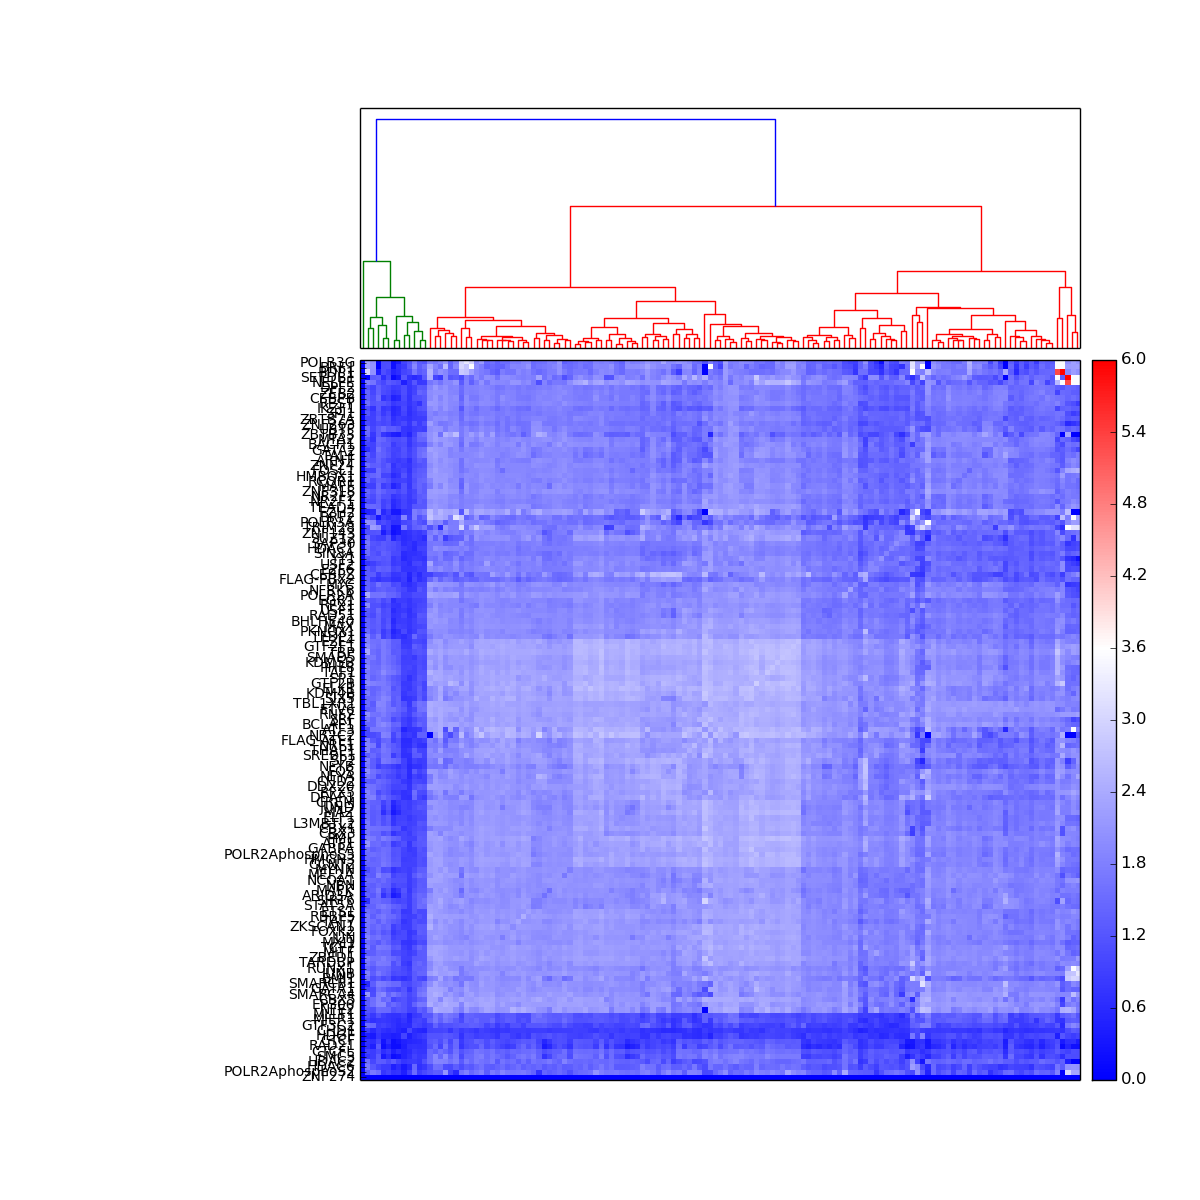
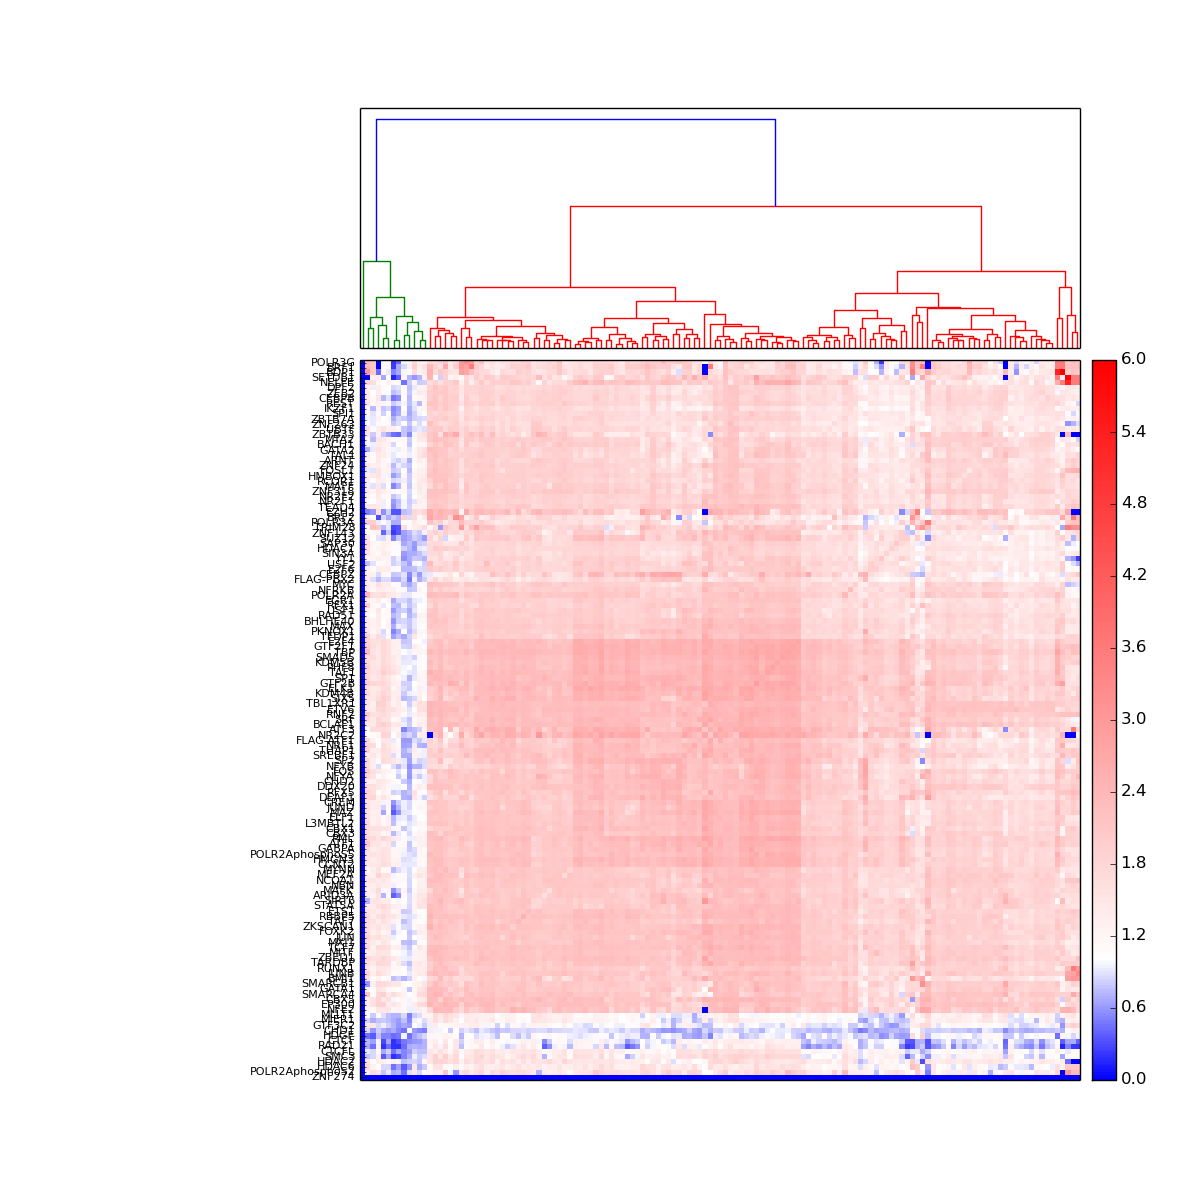
updates

diff --git a/src/create_matrix_from_bidirectional.py b/src/create_matrix_from_bidirectional.py
@@ -132,19 +132,19 @@ def run():
     ax2.set_xticks([])
     ax2.set_yticks([])
     c = mcolors.ColorConverter().to_rgb
-    rvb = make_colormap([c('blue'), c('white'), 0.167, c('white'), c('red'), 1, c('red')])
+    rvb = make_colormap([c('blue'), c('white'), 0.333, c('white'), c('red'), 1, c('red')])
     # Plot distance matrix.
     axmatrix = fig.add_axes([0.3,0.1,0.6,0.6])
     idx1 = Z2['leaves']
     idx2 = Z2['leaves']
     D = D[idx1,:]
     D = D[:,idx2]
-    im = axmatrix.matshow(D, aspect='auto', origin='lower', cmap=rvb,vmax=6,vmin=0)
+    im = axmatrix.matshow(D, aspect='auto', origin='lower', cmap=rvb,vmax=3,vmin=0)
     axmatrix.set_xticks([])
     #axmatrix.set_yticks([])
     axmatrix.set_yticks(range(0,vectors.shape[0]))
     axmatrix.yaxis.tick_left()
-    axmatrix.set_yticklabels([labels[val] for val in idx1],minor=False,fontsize=8)
+    axmatrix.set_yticklabels([labels[val] for val in idx1],minor=False,fontsize=4)
     
     # Plot colorbar.
     axcolor = fig.add_axes([0.91,0.1,0.02,0.6])
